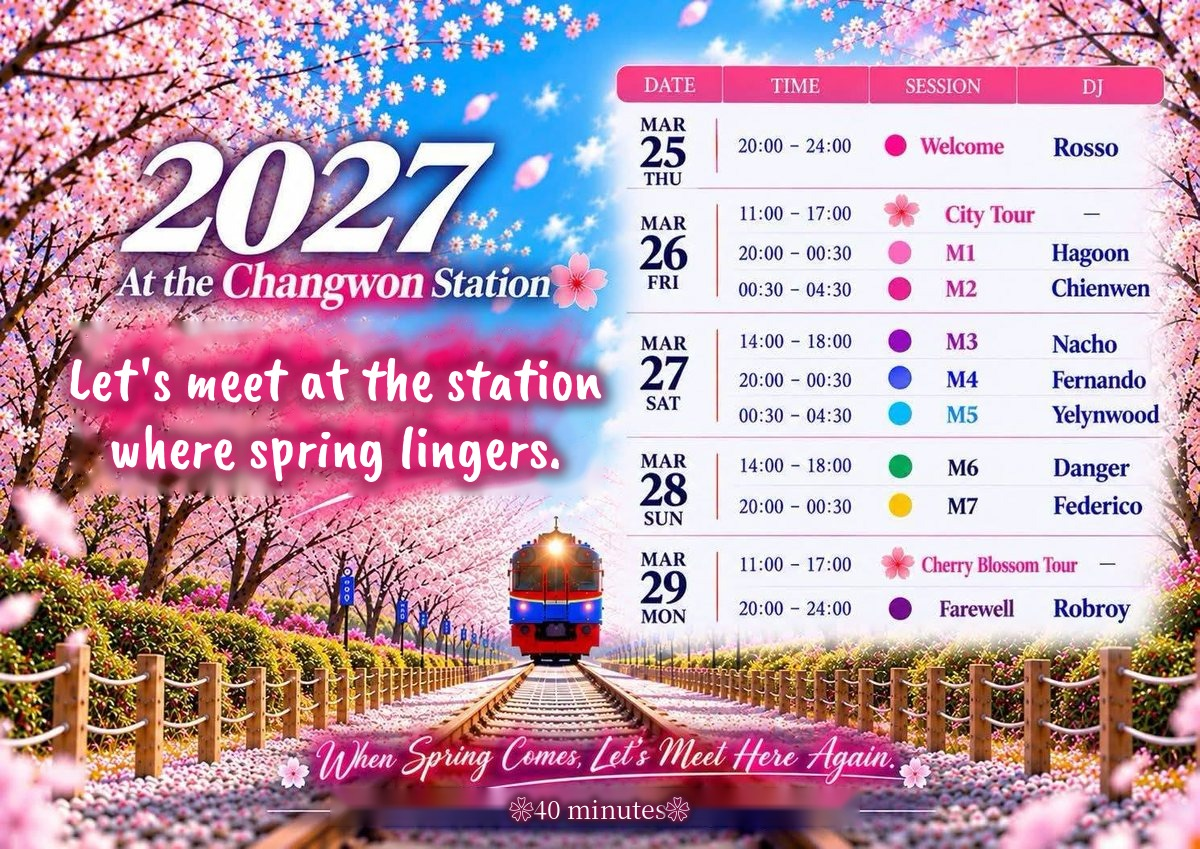
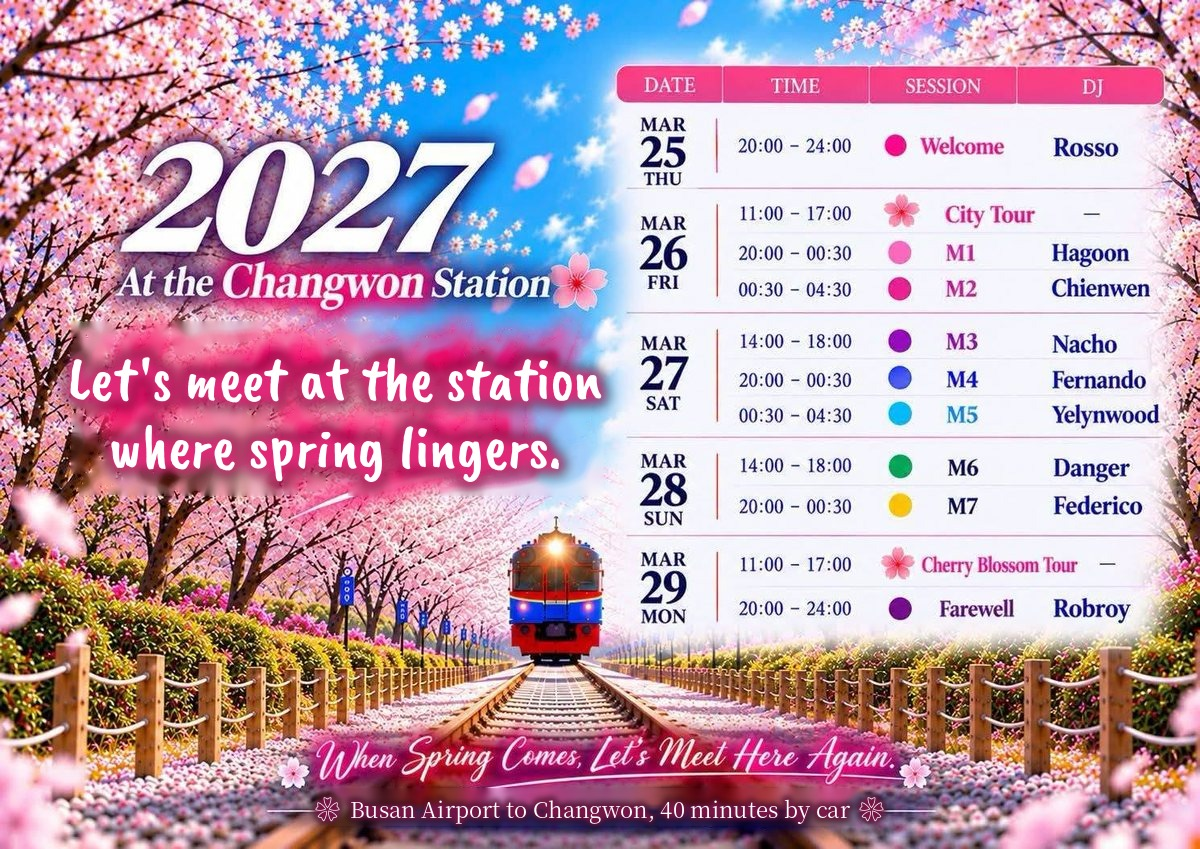
Changwon posters: bottom line 'Busan Airport to Changwon, 40 minutes by car' / '釜山机场到昌原，打车40分钟'

Changed region(s): [[0.2467, 0.9187, 0.74, 0.98]]

diff --git a/event/changwon-2027-tango-marathon/index.html b/event/changwon-2027-tango-marathon/index.html
@@ -12,7 +12,7 @@
 </head>
 <body class="cw-theme">
 <div class="atm-bar atm-sticky"><a class="atm-map" href="../../asia/"><span aria-hidden="true">←</span> Asia Tango Map</a><a class="atm-lang" href="zh/" hreflang="zh-CN">中文</a></div>
-<div class="cw-topbanner"><img src="../../images/changwon/schedule2027_en.jpg?v=5" alt="2027 Changwon Cherry Blossom Tango Marathon schedule poster" width="1200" height="849" fetchpriority="high"></div>
+<div class="cw-topbanner"><img src="../../images/changwon/schedule2027_en.jpg?v=7" alt="2027 Changwon Cherry Blossom Tango Marathon schedule poster" width="1200" height="849" fetchpriority="high"></div>
 <header class="site-header">
   <div class="wrap">
     <a class="brand" href="./" style="font-weight:700;color:#f0d28a;text-decoration:none;margin-right:16px;white-space:nowrap;overflow:hidden;text-overflow:ellipsis;max-width:calc(100vw - 80px);display:inline-block;vertical-align:middle">2027 Changwon Cherry Blossom Tango Marathon</a>
@@ -22,7 +22,7 @@
     </div>
   </div>
 </header>
-<section class="hero" id="top" style="min-height:auto;padding:60px 0 30px"><div class="wrap" style="display:block;text-align:center;max-width:820px"><span class="edition">8th Edition · March 25–29, 2027</span><h1>2027 Changwon Cherry Blossom Tango Marathon</h1><p class="meta">8th Cherry Blossom Tango Marathon · Changwon, South Korea</p><p class="meta" style="font-style:italic">Let’s meet at the station where spring lingers.</p><div class="btns" style="justify-content:center"><a class="btn btn-gold" href="#register">Register</a><a class="btn btn-ghost" href="#info">Schedule & DJs</a></div></div></section><div class="wrap"><div class="gallery g-2 cw-trio"><figure><img src="../../images/changwon/poster2027.jpg" alt="Poster" width="753" height="565" loading="lazy"></figure><figure><img src="../../images/changwon/schedule2027_en.jpg?v=5" alt="Schedule & DJs" width="1200" height="849" loading="lazy"></figure><figure><img src="../../images/changwon/djs2027.jpg" alt="DJ lineup" width="753" height="565" loading="lazy"></figure></div></div><section class="alt"><div class="wrap"><h2 class="sec-title">Highlights</h2><div class="cards" style="display:grid;grid-template-columns:repeat(auto-fit,minmax(260px,1fr));gap:20px"><div class="card"><h3>Twin Ronda</h3><p>Two dance floors, each 9 m × 13 m.</p></div><div class="card"><h3>Reserved seating</h3><p>Full Package holders can reserve tables.</p></div><div class="card"><h3>Non-stop food</h3><p>Food throughout the marathon.</p></div></div></div></section><section id="info"><div class="wrap"><h2 class="sec-title">Venue</h2><p class="venue-block"><b class="venue-name">Munseong University Gymnasium</b><br>91 Chunghon-ro, Seongsan-gu, Changwon, Gyeongsangnam-do, South Korea</p></div></section><section class="alt"><div class="wrap"><h2 class="sec-title">Schedule & DJs</h2><div class="day"><div class="day-date">Thu, Mar 25</div><div><div class="ev"><div>Welcome Milonga · DJ Rosso (Busan)</div><div class="ev-time">20:00–24:00</div></div></div></div><div class="day"><div class="day-date">Fri, Mar 26</div><div><div class="ev"><div>City Tour</div><div class="ev-time">11:00–17:00</div></div><div class="ev"><div>Milonga 1 · DJ Hagoon (Daejeon)</div><div class="ev-time">20:00–00:30</div></div><div class="ev"><div>Milonga 2 · DJ Chienwen (Taipei)</div><div class="ev-time">00:30–04:30</div></div></div></div><div class="day"><div class="day-date">Sat, Mar 27</div><div><div class="ev"><div>Milonga 3 · DJ Nacho (Seoul)</div><div class="ev-time">14:00–18:00</div></div><div class="ev"><div>Milonga 4 · DJ Fernando (Buenos Aires / Shanghai)</div><div class="ev-time">20:00–00:30</div></div><div class="ev"><div>Milonga 5 · DJ Yelynwood (Seoul)</div><div class="ev-time">00:30–04:30</div></div></div></div><div class="day"><div class="day-date">Sun, Mar 28</div><div><div class="ev"><div>Milonga 6 · DJ Danger (Chongqing)</div><div class="ev-time">14:00–18:00</div></div><div class="ev"><div>Milonga 7 · DJ Federico (Busan)</div><div class="ev-time">20:00–00:30</div></div></div></div><div class="day"><div class="day-date">Mon, Mar 29</div><div><div class="ev"><div>Cherry Blossom Tour</div><div class="ev-time">11:00–17:00</div></div><div class="ev"><div>Farewell Milonga · DJ Robroy (Busan)</div><div class="ev-time">20:00–24:00</div></div></div></div></div></section><section><div class="wrap"><h2 class="sec-title">Prices</h2><table style="width:100%;border-collapse:collapse"><tr><td style="padding:8px;border-bottom:1px solid rgba(0,0,0,.1)">Super Early Bird</td><td style="padding:8px;border-bottom:1px solid rgba(0,0,0,.1)">Nov 2–15, 2026</td><td style="padding:8px;border-bottom:1px solid rgba(0,0,0,.1)">CNY 1,000</td></tr><tr><td style="padding:8px;border-bottom:1px solid rgba(0,0,0,.1)">Early Bird</td><td style="padding:8px;border-bottom:1px solid rgba(0,0,0,.1)">Nov 16–Dec 31, 2026</td><td style="padding:8px;border-bottom:1px solid rgba(0,0,0,.1)">CNY 1,100</td></tr><tr><td style="padding:8px;border-bottom:1px solid rgba(0,0,0,.1)">Regular</td><td style="padding:8px;border-bottom:1px solid rgba(0,0,0,.1)">From Jan 1, 2027</td><td style="padding:8px;border-bottom:1px solid rgba(0,0,0,.1)">CNY 1,200</td></tr></table></div></section><section class="alt"><div class="wrap"><h2 class="sec-title">Seating</h2><ul class="note"><li>Full Package holders can reserve tables.</li><li>The Twin Ronda has 8 zones; choose one.</li><li>Day 1: seated in your chosen zone. Days 2–3: random seating.</li><li>Tables are split 60% Korean / 40% overseas dancers.</li></ul></div></section><section id="hotels" class="alt"><div class="wrap"><h2 class="sec-title">Partner hotels</h2><p class="meta" style="text-align:center;margin:-20px 0 24px">Book together with your registration for a group rate of about 20–30% off.</p><div class="cards" style="display:grid;grid-template-columns:repeat(auto-fit,minmax(260px,1fr));gap:20px"><div class="card"><h3>Grand Mercure Ambassador Changwon</h3><p>Walking distance to the venue</p><p><b>KRW 145,000–155,000</b></p></div><div class="card"><h3>Hotel Avenue</h3><p>Near Yongji Lake · up to 10 min by taxi</p><p><b>KRW 88,000–110,000</b></p></div><div class="card"><h3>Sungsan Hotel</h3><p>Near Yongji Lake · up to 10 min by taxi</p><p><b>KRW 55,000–65,000</b></p></div></div></div></section><section id="register"><div class="wrap"><h2 class="sec-title">Registration</h2><p class="meta" style="text-align:center;margin:-20px 0 24px">Opens Monday, November 2, 2026 · 12:00 Korea time / 11:00 China time</p><ul class="note"><li>Registration opens <b>Monday, November 2, 2026, 12:00 Korea time (11:00 China time)</b>.</li><li>Register individually or as a group (2+ people; one representative registers for everyone).</li><li>Process: apply → review → payment → confirmed. Submitting an application is not a confirmation.</li><li>Leader/follower balance may limit some registrations. Spots are limited and registration may close early.</li><li>Chinese dancers can pay in RMB via WeChat Pay.</li></ul><table style="width:100%;border-collapse:collapse"><tr><td style="padding:8px;border-bottom:1px solid rgba(0,0,0,.1)">Super Early Bird</td><td style="padding:8px;border-bottom:1px solid rgba(0,0,0,.1)">Nov 2–15, 2026</td><td style="padding:8px;border-bottom:1px solid rgba(0,0,0,.1)">CNY 1,000</td></tr><tr><td style="padding:8px;border-bottom:1px solid rgba(0,0,0,.1)">Early Bird</td><td style="padding:8px;border-bottom:1px solid rgba(0,0,0,.1)">Nov 16–Dec 31, 2026</td><td style="padding:8px;border-bottom:1px solid rgba(0,0,0,.1)">CNY 1,100</td></tr><tr><td style="padding:8px;border-bottom:1px solid rgba(0,0,0,.1)">Regular</td><td style="padding:8px;border-bottom:1px solid rgba(0,0,0,.1)">From Jan 1, 2027</td><td style="padding:8px;border-bottom:1px solid rgba(0,0,0,.1)">CNY 1,200</td></tr></table><ul class="note"><li>Full Package holders can reserve tables.</li><li>The Twin Ronda has 8 zones; choose one.</li><li>Day 1: seated in your chosen zone. Days 2–3: random seating.</li><li>Tables are split 60% Korean / 40% overseas dancers.</li></ul><p class="meta" style="margin-top:20px"><b>The registration link will be posted here when registration opens.</b></p></div></section>
+<section class="hero" id="top" style="min-height:auto;padding:60px 0 30px"><div class="wrap" style="display:block;text-align:center;max-width:820px"><span class="edition">8th Edition · March 25–29, 2027</span><h1>2027 Changwon Cherry Blossom Tango Marathon</h1><p class="meta">8th Cherry Blossom Tango Marathon · Changwon, South Korea</p><p class="meta" style="font-style:italic">Let’s meet at the station where spring lingers.</p><div class="btns" style="justify-content:center"><a class="btn btn-gold" href="#register">Register</a><a class="btn btn-ghost" href="#info">Schedule & DJs</a></div></div></section><div class="wrap"><div class="gallery g-2 cw-trio"><figure><img src="../../images/changwon/poster2027.jpg" alt="Poster" width="753" height="565" loading="lazy"></figure><figure><img src="../../images/changwon/schedule2027_en.jpg?v=7" alt="Schedule & DJs" width="1200" height="849" loading="lazy"></figure><figure><img src="../../images/changwon/djs2027.jpg" alt="DJ lineup" width="753" height="565" loading="lazy"></figure></div></div><section class="alt"><div class="wrap"><h2 class="sec-title">Highlights</h2><div class="cards" style="display:grid;grid-template-columns:repeat(auto-fit,minmax(260px,1fr));gap:20px"><div class="card"><h3>Twin Ronda</h3><p>Two dance floors, each 9 m × 13 m.</p></div><div class="card"><h3>Reserved seating</h3><p>Full Package holders can reserve tables.</p></div><div class="card"><h3>Non-stop food</h3><p>Food throughout the marathon.</p></div></div></div></section><section id="info"><div class="wrap"><h2 class="sec-title">Venue</h2><p class="venue-block"><b class="venue-name">Munseong University Gymnasium</b><br>91 Chunghon-ro, Seongsan-gu, Changwon, Gyeongsangnam-do, South Korea</p></div></section><section class="alt"><div class="wrap"><h2 class="sec-title">Schedule & DJs</h2><div class="day"><div class="day-date">Thu, Mar 25</div><div><div class="ev"><div>Welcome Milonga · DJ Rosso (Busan)</div><div class="ev-time">20:00–24:00</div></div></div></div><div class="day"><div class="day-date">Fri, Mar 26</div><div><div class="ev"><div>City Tour</div><div class="ev-time">11:00–17:00</div></div><div class="ev"><div>Milonga 1 · DJ Hagoon (Daejeon)</div><div class="ev-time">20:00–00:30</div></div><div class="ev"><div>Milonga 2 · DJ Chienwen (Taipei)</div><div class="ev-time">00:30–04:30</div></div></div></div><div class="day"><div class="day-date">Sat, Mar 27</div><div><div class="ev"><div>Milonga 3 · DJ Nacho (Seoul)</div><div class="ev-time">14:00–18:00</div></div><div class="ev"><div>Milonga 4 · DJ Fernando (Buenos Aires / Shanghai)</div><div class="ev-time">20:00–00:30</div></div><div class="ev"><div>Milonga 5 · DJ Yelynwood (Seoul)</div><div class="ev-time">00:30–04:30</div></div></div></div><div class="day"><div class="day-date">Sun, Mar 28</div><div><div class="ev"><div>Milonga 6 · DJ Danger (Chongqing)</div><div class="ev-time">14:00–18:00</div></div><div class="ev"><div>Milonga 7 · DJ Federico (Busan)</div><div class="ev-time">20:00–00:30</div></div></div></div><div class="day"><div class="day-date">Mon, Mar 29</div><div><div class="ev"><div>Cherry Blossom Tour</div><div class="ev-time">11:00–17:00</div></div><div class="ev"><div>Farewell Milonga · DJ Robroy (Busan)</div><div class="ev-time">20:00–24:00</div></div></div></div></div></section><section><div class="wrap"><h2 class="sec-title">Prices</h2><table style="width:100%;border-collapse:collapse"><tr><td style="padding:8px;border-bottom:1px solid rgba(0,0,0,.1)">Super Early Bird</td><td style="padding:8px;border-bottom:1px solid rgba(0,0,0,.1)">Nov 2–15, 2026</td><td style="padding:8px;border-bottom:1px solid rgba(0,0,0,.1)">CNY 1,000</td></tr><tr><td style="padding:8px;border-bottom:1px solid rgba(0,0,0,.1)">Early Bird</td><td style="padding:8px;border-bottom:1px solid rgba(0,0,0,.1)">Nov 16–Dec 31, 2026</td><td style="padding:8px;border-bottom:1px solid rgba(0,0,0,.1)">CNY 1,100</td></tr><tr><td style="padding:8px;border-bottom:1px solid rgba(0,0,0,.1)">Regular</td><td style="padding:8px;border-bottom:1px solid rgba(0,0,0,.1)">From Jan 1, 2027</td><td style="padding:8px;border-bottom:1px solid rgba(0,0,0,.1)">CNY 1,200</td></tr></table></div></section><section class="alt"><div class="wrap"><h2 class="sec-title">Seating</h2><ul class="note"><li>Full Package holders can reserve tables.</li><li>The Twin Ronda has 8 zones; choose one.</li><li>Day 1: seated in your chosen zone. Days 2–3: random seating.</li><li>Tables are split 60% Korean / 40% overseas dancers.</li></ul></div></section><section id="hotels" class="alt"><div class="wrap"><h2 class="sec-title">Partner hotels</h2><p class="meta" style="text-align:center;margin:-20px 0 24px">Book together with your registration for a group rate of about 20–30% off.</p><div class="cards" style="display:grid;grid-template-columns:repeat(auto-fit,minmax(260px,1fr));gap:20px"><div class="card"><h3>Grand Mercure Ambassador Changwon</h3><p>Walking distance to the venue</p><p><b>KRW 145,000–155,000</b></p></div><div class="card"><h3>Hotel Avenue</h3><p>Near Yongji Lake · up to 10 min by taxi</p><p><b>KRW 88,000–110,000</b></p></div><div class="card"><h3>Sungsan Hotel</h3><p>Near Yongji Lake · up to 10 min by taxi</p><p><b>KRW 55,000–65,000</b></p></div></div></div></section><section id="register"><div class="wrap"><h2 class="sec-title">Registration</h2><p class="meta" style="text-align:center;margin:-20px 0 24px">Opens Monday, November 2, 2026 · 12:00 Korea time / 11:00 China time</p><ul class="note"><li>Registration opens <b>Monday, November 2, 2026, 12:00 Korea time (11:00 China time)</b>.</li><li>Register individually or as a group (2+ people; one representative registers for everyone).</li><li>Process: apply → review → payment → confirmed. Submitting an application is not a confirmation.</li><li>Leader/follower balance may limit some registrations. Spots are limited and registration may close early.</li><li>Chinese dancers can pay in RMB via WeChat Pay.</li></ul><table style="width:100%;border-collapse:collapse"><tr><td style="padding:8px;border-bottom:1px solid rgba(0,0,0,.1)">Super Early Bird</td><td style="padding:8px;border-bottom:1px solid rgba(0,0,0,.1)">Nov 2–15, 2026</td><td style="padding:8px;border-bottom:1px solid rgba(0,0,0,.1)">CNY 1,000</td></tr><tr><td style="padding:8px;border-bottom:1px solid rgba(0,0,0,.1)">Early Bird</td><td style="padding:8px;border-bottom:1px solid rgba(0,0,0,.1)">Nov 16–Dec 31, 2026</td><td style="padding:8px;border-bottom:1px solid rgba(0,0,0,.1)">CNY 1,100</td></tr><tr><td style="padding:8px;border-bottom:1px solid rgba(0,0,0,.1)">Regular</td><td style="padding:8px;border-bottom:1px solid rgba(0,0,0,.1)">From Jan 1, 2027</td><td style="padding:8px;border-bottom:1px solid rgba(0,0,0,.1)">CNY 1,200</td></tr></table><ul class="note"><li>Full Package holders can reserve tables.</li><li>The Twin Ronda has 8 zones; choose one.</li><li>Day 1: seated in your chosen zone. Days 2–3: random seating.</li><li>Tables are split 60% Korean / 40% overseas dancers.</li></ul><p class="meta" style="margin-top:20px"><b>The registration link will be posted here when registration opens.</b></p></div></section>
 <footer id="contact"><div class="wrap"></div></footer>
 <script>(function(){var btn=document.querySelector('.nav-toggle'),header=document.querySelector('.site-header');if(!btn||!header)return;btn.addEventListener('click',function(){var o=header.classList.toggle('is-open');btn.setAttribute('aria-expanded',o);});})();</script>
 </body>

diff --git a/event/changwon-2027-tango-marathon/zh/index.html b/event/changwon-2027-tango-marathon/zh/index.html
@@ -12,7 +12,7 @@
 </head>
 <body class="cw-theme">
 <div class="atm-bar atm-sticky"><a class="atm-map" href="../../../zh/asia/"><span aria-hidden="true">←</span> 亚洲探戈地图</a><a class="atm-lang" href="../" hreflang="en">EN</a></div>
-<div class="cw-topbanner"><img src="../../../images/changwon/schedule2027_zh.jpg?v=5" alt="2027韩国昌原探戈樱花节日程海报" width="1200" height="849" fetchpriority="high"></div>
+<div class="cw-topbanner"><img src="../../../images/changwon/schedule2027_zh.jpg?v=7" alt="2027韩国昌原探戈樱花节日程海报" width="1200" height="849" fetchpriority="high"></div>
 <header class="site-header">
   <div class="wrap">
     <a class="brand" href="./" style="font-weight:700;color:#f0d28a;text-decoration:none;margin-right:16px;white-space:nowrap;overflow:hidden;text-overflow:ellipsis;max-width:calc(100vw - 80px);display:inline-block;vertical-align:middle">2027韩国昌原樱花探戈马拉松</a>
@@ -22,7 +22,7 @@
     </div>
   </div>
 </header>
-<section class="hero" id="top" style="min-height:auto;padding:60px 0 30px"><div class="wrap" style="display:block;text-align:center;max-width:820px"><span class="edition">第8届 · 2027年3月25日–29日</span><h1>2027韩国昌原樱花探戈马拉松</h1><p class="meta">第8届樱花探戈马拉松 · 韩国昌原</p><p class="meta" style="font-style:italic">在春天停留的那个车站，我们相见吧。</p><div class="btns" style="justify-content:center"><a class="btn btn-gold" href="#register">报名</a><a class="btn btn-ghost" href="#info">日程与DJ</a></div></div></section><div class="wrap"><div class="gallery g-2 cw-trio"><figure><img src="../../../images/changwon/poster2027.jpg" alt="海报" width="753" height="565" loading="lazy"></figure><figure><img src="../../../images/changwon/schedule2027_zh.jpg?v=5" alt="日程与DJ" width="1200" height="849" loading="lazy"></figure><figure><img src="../../../images/changwon/djs2027.jpg" alt="DJ阵容" width="753" height="565" loading="lazy"></figure></div></div><section class="alt"><div class="wrap"><h2 class="sec-title">亮点</h2><div class="cards" style="display:grid;grid-template-columns:repeat(auto-fit,minmax(260px,1fr));gap:20px"><div class="card"><h3>双舞池</h3><p>两个舞池，各9米×13米。</p></div><div class="card"><h3>预订座位</h3><p>全套票可预订座位。</p></div><div class="card"><h3>不间断美食</h3><p>马拉松期间美食不断。</p></div></div></div></section><section id="info"><div class="wrap"><h2 class="sec-title">场地</h2><p class="venue-block"><b class="venue-name">文星大学体育馆</b><br>韩国庆尚南道昌原市城山区忠魂路91号</p></div></section><section class="alt"><div class="wrap"><h2 class="sec-title">日程与DJ</h2><div class="day"><div class="day-date">3月25日（周四）</div><div><div class="ev"><div>欢迎舞会 · DJ Rosso（釜山）</div><div class="ev-time">20:00–24:00</div></div></div></div><div class="day"><div class="day-date">3月26日（周五）</div><div><div class="ev"><div>城市游</div><div class="ev-time">11:00–17:00</div></div><div class="ev"><div>M1 · DJ Hagoon（大田）</div><div class="ev-time">20:00–00:30</div></div><div class="ev"><div>M2 · DJ Chienwen（台北）</div><div class="ev-time">00:30–04:30</div></div></div></div><div class="day"><div class="day-date">3月27日（周六）</div><div><div class="ev"><div>M3 · DJ Nacho（首尔）</div><div class="ev-time">14:00–18:00</div></div><div class="ev"><div>M4 · DJ Fernando（布宜诺斯艾利斯／上海）</div><div class="ev-time">20:00–00:30</div></div><div class="ev"><div>M5 · DJ Yelynwood（首尔）</div><div class="ev-time">00:30–04:30</div></div></div></div><div class="day"><div class="day-date">3月28日（周日）</div><div><div class="ev"><div>M6 · DJ Danger（重庆）</div><div class="ev-time">14:00–18:00</div></div><div class="ev"><div>M7 · DJ Federico（釜山）</div><div class="ev-time">20:00–00:30</div></div></div></div><div class="day"><div class="day-date">3月29日（周一）</div><div><div class="ev"><div>樱花游</div><div class="ev-time">11:00–17:00</div></div><div class="ev"><div>告别舞会 · DJ Robroy（釜山）</div><div class="ev-time">20:00–24:00</div></div></div></div></div></section><section><div class="wrap"><h2 class="sec-title">价格</h2><table style="width:100%;border-collapse:collapse"><tr><td style="padding:8px;border-bottom:1px solid rgba(0,0,0,.1)">超早鸟</td><td style="padding:8px;border-bottom:1px solid rgba(0,0,0,.1)">2026年11月2日–15日</td><td style="padding:8px;border-bottom:1px solid rgba(0,0,0,.1)">1,000元</td></tr><tr><td style="padding:8px;border-bottom:1px solid rgba(0,0,0,.1)">早鸟</td><td style="padding:8px;border-bottom:1px solid rgba(0,0,0,.1)">2026年11月16日–12月31日</td><td style="padding:8px;border-bottom:1px solid rgba(0,0,0,.1)">1,100元</td></tr><tr><td style="padding:8px;border-bottom:1px solid rgba(0,0,0,.1)">常规</td><td style="padding:8px;border-bottom:1px solid rgba(0,0,0,.1)">2027年1月1日起</td><td style="padding:8px;border-bottom:1px solid rgba(0,0,0,.1)">1,200元</td></tr></table></div></section><section class="alt"><div class="wrap"><h2 class="sec-title">座位</h2><ul class="note"><li>全套票（Full Package）可预订座位。</li><li>双舞池共分8个区域，可选择其一。</li><li>第一天按所选区域就座，第二、三天随机安排。</li><li>座位比例：韩国舞者60%，海外舞者40%。</li></ul></div></section><section id="hotels" class="alt"><div class="wrap"><h2 class="sec-title">合作酒店</h2><p class="meta" style="text-align:center;margin:-20px 0 24px">与报名一起预订，可享约20%–30%团体优惠。</p><div class="cards" style="display:grid;grid-template-columns:repeat(auto-fit,minmax(260px,1fr));gap:20px"><div class="card"><h3>Grand Mercure Ambassador Changwon（昌原大使美居酒店）</h3><p>步行可达场地</p><p><b>145,000–155,000韩元</b></p></div><div class="card"><h3>Hotel Avenue</h3><p>近龙池湖，打车10分钟以内</p><p><b>88,000–110,000韩元</b></p></div><div class="card"><h3>Sungsan Hotel</h3><p>近龙池湖，打车10分钟以内</p><p><b>55,000–65,000韩元</b></p></div></div></div></section><section id="register"><div class="wrap"><h2 class="sec-title">报名</h2><p class="meta" style="text-align:center;margin:-20px 0 24px">2026年11月2日（周一）韩国时间12:00／中国时间11:00开放</p><ul class="note"><li>报名时间：<b>2026年11月2日（周一）韩国时间12:00（中国时间11:00）</b>开放。</li><li>可个人报名或团体报名（2人以上，由一位代表统一报名）。</li><li>流程：申请→审核→付款→确认。提交申请不等于报名成功。</li><li>为保持男女步比例平衡，部分报名可能受限；名额有限，可能提前截止。</li><li>中国舞者可通过微信支付人民币付款。</li></ul><table style="width:100%;border-collapse:collapse"><tr><td style="padding:8px;border-bottom:1px solid rgba(0,0,0,.1)">超早鸟</td><td style="padding:8px;border-bottom:1px solid rgba(0,0,0,.1)">2026年11月2日–15日</td><td style="padding:8px;border-bottom:1px solid rgba(0,0,0,.1)">1,000元</td></tr><tr><td style="padding:8px;border-bottom:1px solid rgba(0,0,0,.1)">早鸟</td><td style="padding:8px;border-bottom:1px solid rgba(0,0,0,.1)">2026年11月16日–12月31日</td><td style="padding:8px;border-bottom:1px solid rgba(0,0,0,.1)">1,100元</td></tr><tr><td style="padding:8px;border-bottom:1px solid rgba(0,0,0,.1)">常规</td><td style="padding:8px;border-bottom:1px solid rgba(0,0,0,.1)">2027年1月1日起</td><td style="padding:8px;border-bottom:1px solid rgba(0,0,0,.1)">1,200元</td></tr></table><ul class="note"><li>全套票（Full Package）可预订座位。</li><li>双舞池共分8个区域，可选择其一。</li><li>第一天按所选区域就座，第二、三天随机安排。</li><li>座位比例：韩国舞者60%，海外舞者40%。</li></ul><p class="meta" style="margin-top:20px"><b>报名链接将在报名开放时于此公布。</b></p></div></section>
+<section class="hero" id="top" style="min-height:auto;padding:60px 0 30px"><div class="wrap" style="display:block;text-align:center;max-width:820px"><span class="edition">第8届 · 2027年3月25日–29日</span><h1>2027韩国昌原樱花探戈马拉松</h1><p class="meta">第8届樱花探戈马拉松 · 韩国昌原</p><p class="meta" style="font-style:italic">在春天停留的那个车站，我们相见吧。</p><div class="btns" style="justify-content:center"><a class="btn btn-gold" href="#register">报名</a><a class="btn btn-ghost" href="#info">日程与DJ</a></div></div></section><div class="wrap"><div class="gallery g-2 cw-trio"><figure><img src="../../../images/changwon/poster2027.jpg" alt="海报" width="753" height="565" loading="lazy"></figure><figure><img src="../../../images/changwon/schedule2027_zh.jpg?v=7" alt="日程与DJ" width="1200" height="849" loading="lazy"></figure><figure><img src="../../../images/changwon/djs2027.jpg" alt="DJ阵容" width="753" height="565" loading="lazy"></figure></div></div><section class="alt"><div class="wrap"><h2 class="sec-title">亮点</h2><div class="cards" style="display:grid;grid-template-columns:repeat(auto-fit,minmax(260px,1fr));gap:20px"><div class="card"><h3>双舞池</h3><p>两个舞池，各9米×13米。</p></div><div class="card"><h3>预订座位</h3><p>全套票可预订座位。</p></div><div class="card"><h3>不间断美食</h3><p>马拉松期间美食不断。</p></div></div></div></section><section id="info"><div class="wrap"><h2 class="sec-title">场地</h2><p class="venue-block"><b class="venue-name">文星大学体育馆</b><br>韩国庆尚南道昌原市城山区忠魂路91号</p></div></section><section class="alt"><div class="wrap"><h2 class="sec-title">日程与DJ</h2><div class="day"><div class="day-date">3月25日（周四）</div><div><div class="ev"><div>欢迎舞会 · DJ Rosso（釜山）</div><div class="ev-time">20:00–24:00</div></div></div></div><div class="day"><div class="day-date">3月26日（周五）</div><div><div class="ev"><div>城市游</div><div class="ev-time">11:00–17:00</div></div><div class="ev"><div>M1 · DJ Hagoon（大田）</div><div class="ev-time">20:00–00:30</div></div><div class="ev"><div>M2 · DJ Chienwen（台北）</div><div class="ev-time">00:30–04:30</div></div></div></div><div class="day"><div class="day-date">3月27日（周六）</div><div><div class="ev"><div>M3 · DJ Nacho（首尔）</div><div class="ev-time">14:00–18:00</div></div><div class="ev"><div>M4 · DJ Fernando（布宜诺斯艾利斯／上海）</div><div class="ev-time">20:00–00:30</div></div><div class="ev"><div>M5 · DJ Yelynwood（首尔）</div><div class="ev-time">00:30–04:30</div></div></div></div><div class="day"><div class="day-date">3月28日（周日）</div><div><div class="ev"><div>M6 · DJ Danger（重庆）</div><div class="ev-time">14:00–18:00</div></div><div class="ev"><div>M7 · DJ Federico（釜山）</div><div class="ev-time">20:00–00:30</div></div></div></div><div class="day"><div class="day-date">3月29日（周一）</div><div><div class="ev"><div>樱花游</div><div class="ev-time">11:00–17:00</div></div><div class="ev"><div>告别舞会 · DJ Robroy（釜山）</div><div class="ev-time">20:00–24:00</div></div></div></div></div></section><section><div class="wrap"><h2 class="sec-title">价格</h2><table style="width:100%;border-collapse:collapse"><tr><td style="padding:8px;border-bottom:1px solid rgba(0,0,0,.1)">超早鸟</td><td style="padding:8px;border-bottom:1px solid rgba(0,0,0,.1)">2026年11月2日–15日</td><td style="padding:8px;border-bottom:1px solid rgba(0,0,0,.1)">1,000元</td></tr><tr><td style="padding:8px;border-bottom:1px solid rgba(0,0,0,.1)">早鸟</td><td style="padding:8px;border-bottom:1px solid rgba(0,0,0,.1)">2026年11月16日–12月31日</td><td style="padding:8px;border-bottom:1px solid rgba(0,0,0,.1)">1,100元</td></tr><tr><td style="padding:8px;border-bottom:1px solid rgba(0,0,0,.1)">常规</td><td style="padding:8px;border-bottom:1px solid rgba(0,0,0,.1)">2027年1月1日起</td><td style="padding:8px;border-bottom:1px solid rgba(0,0,0,.1)">1,200元</td></tr></table></div></section><section class="alt"><div class="wrap"><h2 class="sec-title">座位</h2><ul class="note"><li>全套票（Full Package）可预订座位。</li><li>双舞池共分8个区域，可选择其一。</li><li>第一天按所选区域就座，第二、三天随机安排。</li><li>座位比例：韩国舞者60%，海外舞者40%。</li></ul></div></section><section id="hotels" class="alt"><div class="wrap"><h2 class="sec-title">合作酒店</h2><p class="meta" style="text-align:center;margin:-20px 0 24px">与报名一起预订，可享约20%–30%团体优惠。</p><div class="cards" style="display:grid;grid-template-columns:repeat(auto-fit,minmax(260px,1fr));gap:20px"><div class="card"><h3>Grand Mercure Ambassador Changwon（昌原大使美居酒店）</h3><p>步行可达场地</p><p><b>145,000–155,000韩元</b></p></div><div class="card"><h3>Hotel Avenue</h3><p>近龙池湖，打车10分钟以内</p><p><b>88,000–110,000韩元</b></p></div><div class="card"><h3>Sungsan Hotel</h3><p>近龙池湖，打车10分钟以内</p><p><b>55,000–65,000韩元</b></p></div></div></div></section><section id="register"><div class="wrap"><h2 class="sec-title">报名</h2><p class="meta" style="text-align:center;margin:-20px 0 24px">2026年11月2日（周一）韩国时间12:00／中国时间11:00开放</p><ul class="note"><li>报名时间：<b>2026年11月2日（周一）韩国时间12:00（中国时间11:00）</b>开放。</li><li>可个人报名或团体报名（2人以上，由一位代表统一报名）。</li><li>流程：申请→审核→付款→确认。提交申请不等于报名成功。</li><li>为保持男女步比例平衡，部分报名可能受限；名额有限，可能提前截止。</li><li>中国舞者可通过微信支付人民币付款。</li></ul><table style="width:100%;border-collapse:collapse"><tr><td style="padding:8px;border-bottom:1px solid rgba(0,0,0,.1)">超早鸟</td><td style="padding:8px;border-bottom:1px solid rgba(0,0,0,.1)">2026年11月2日–15日</td><td style="padding:8px;border-bottom:1px solid rgba(0,0,0,.1)">1,000元</td></tr><tr><td style="padding:8px;border-bottom:1px solid rgba(0,0,0,.1)">早鸟</td><td style="padding:8px;border-bottom:1px solid rgba(0,0,0,.1)">2026年11月16日–12月31日</td><td style="padding:8px;border-bottom:1px solid rgba(0,0,0,.1)">1,100元</td></tr><tr><td style="padding:8px;border-bottom:1px solid rgba(0,0,0,.1)">常规</td><td style="padding:8px;border-bottom:1px solid rgba(0,0,0,.1)">2027年1月1日起</td><td style="padding:8px;border-bottom:1px solid rgba(0,0,0,.1)">1,200元</td></tr></table><ul class="note"><li>全套票（Full Package）可预订座位。</li><li>双舞池共分8个区域，可选择其一。</li><li>第一天按所选区域就座，第二、三天随机安排。</li><li>座位比例：韩国舞者60%，海外舞者40%。</li></ul><p class="meta" style="margin-top:20px"><b>报名链接将在报名开放时于此公布。</b></p></div></section>
 <footer id="contact"><div class="wrap"></div></footer>
 <script>(function(){var btn=document.querySelector('.nav-toggle'),header=document.querySelector('.site-header');if(!btn||!header)return;btn.addEventListener('click',function(){var o=header.classList.toggle('is-open');btn.setAttribute('aria-expanded',o);});})();</script>
 </body>
